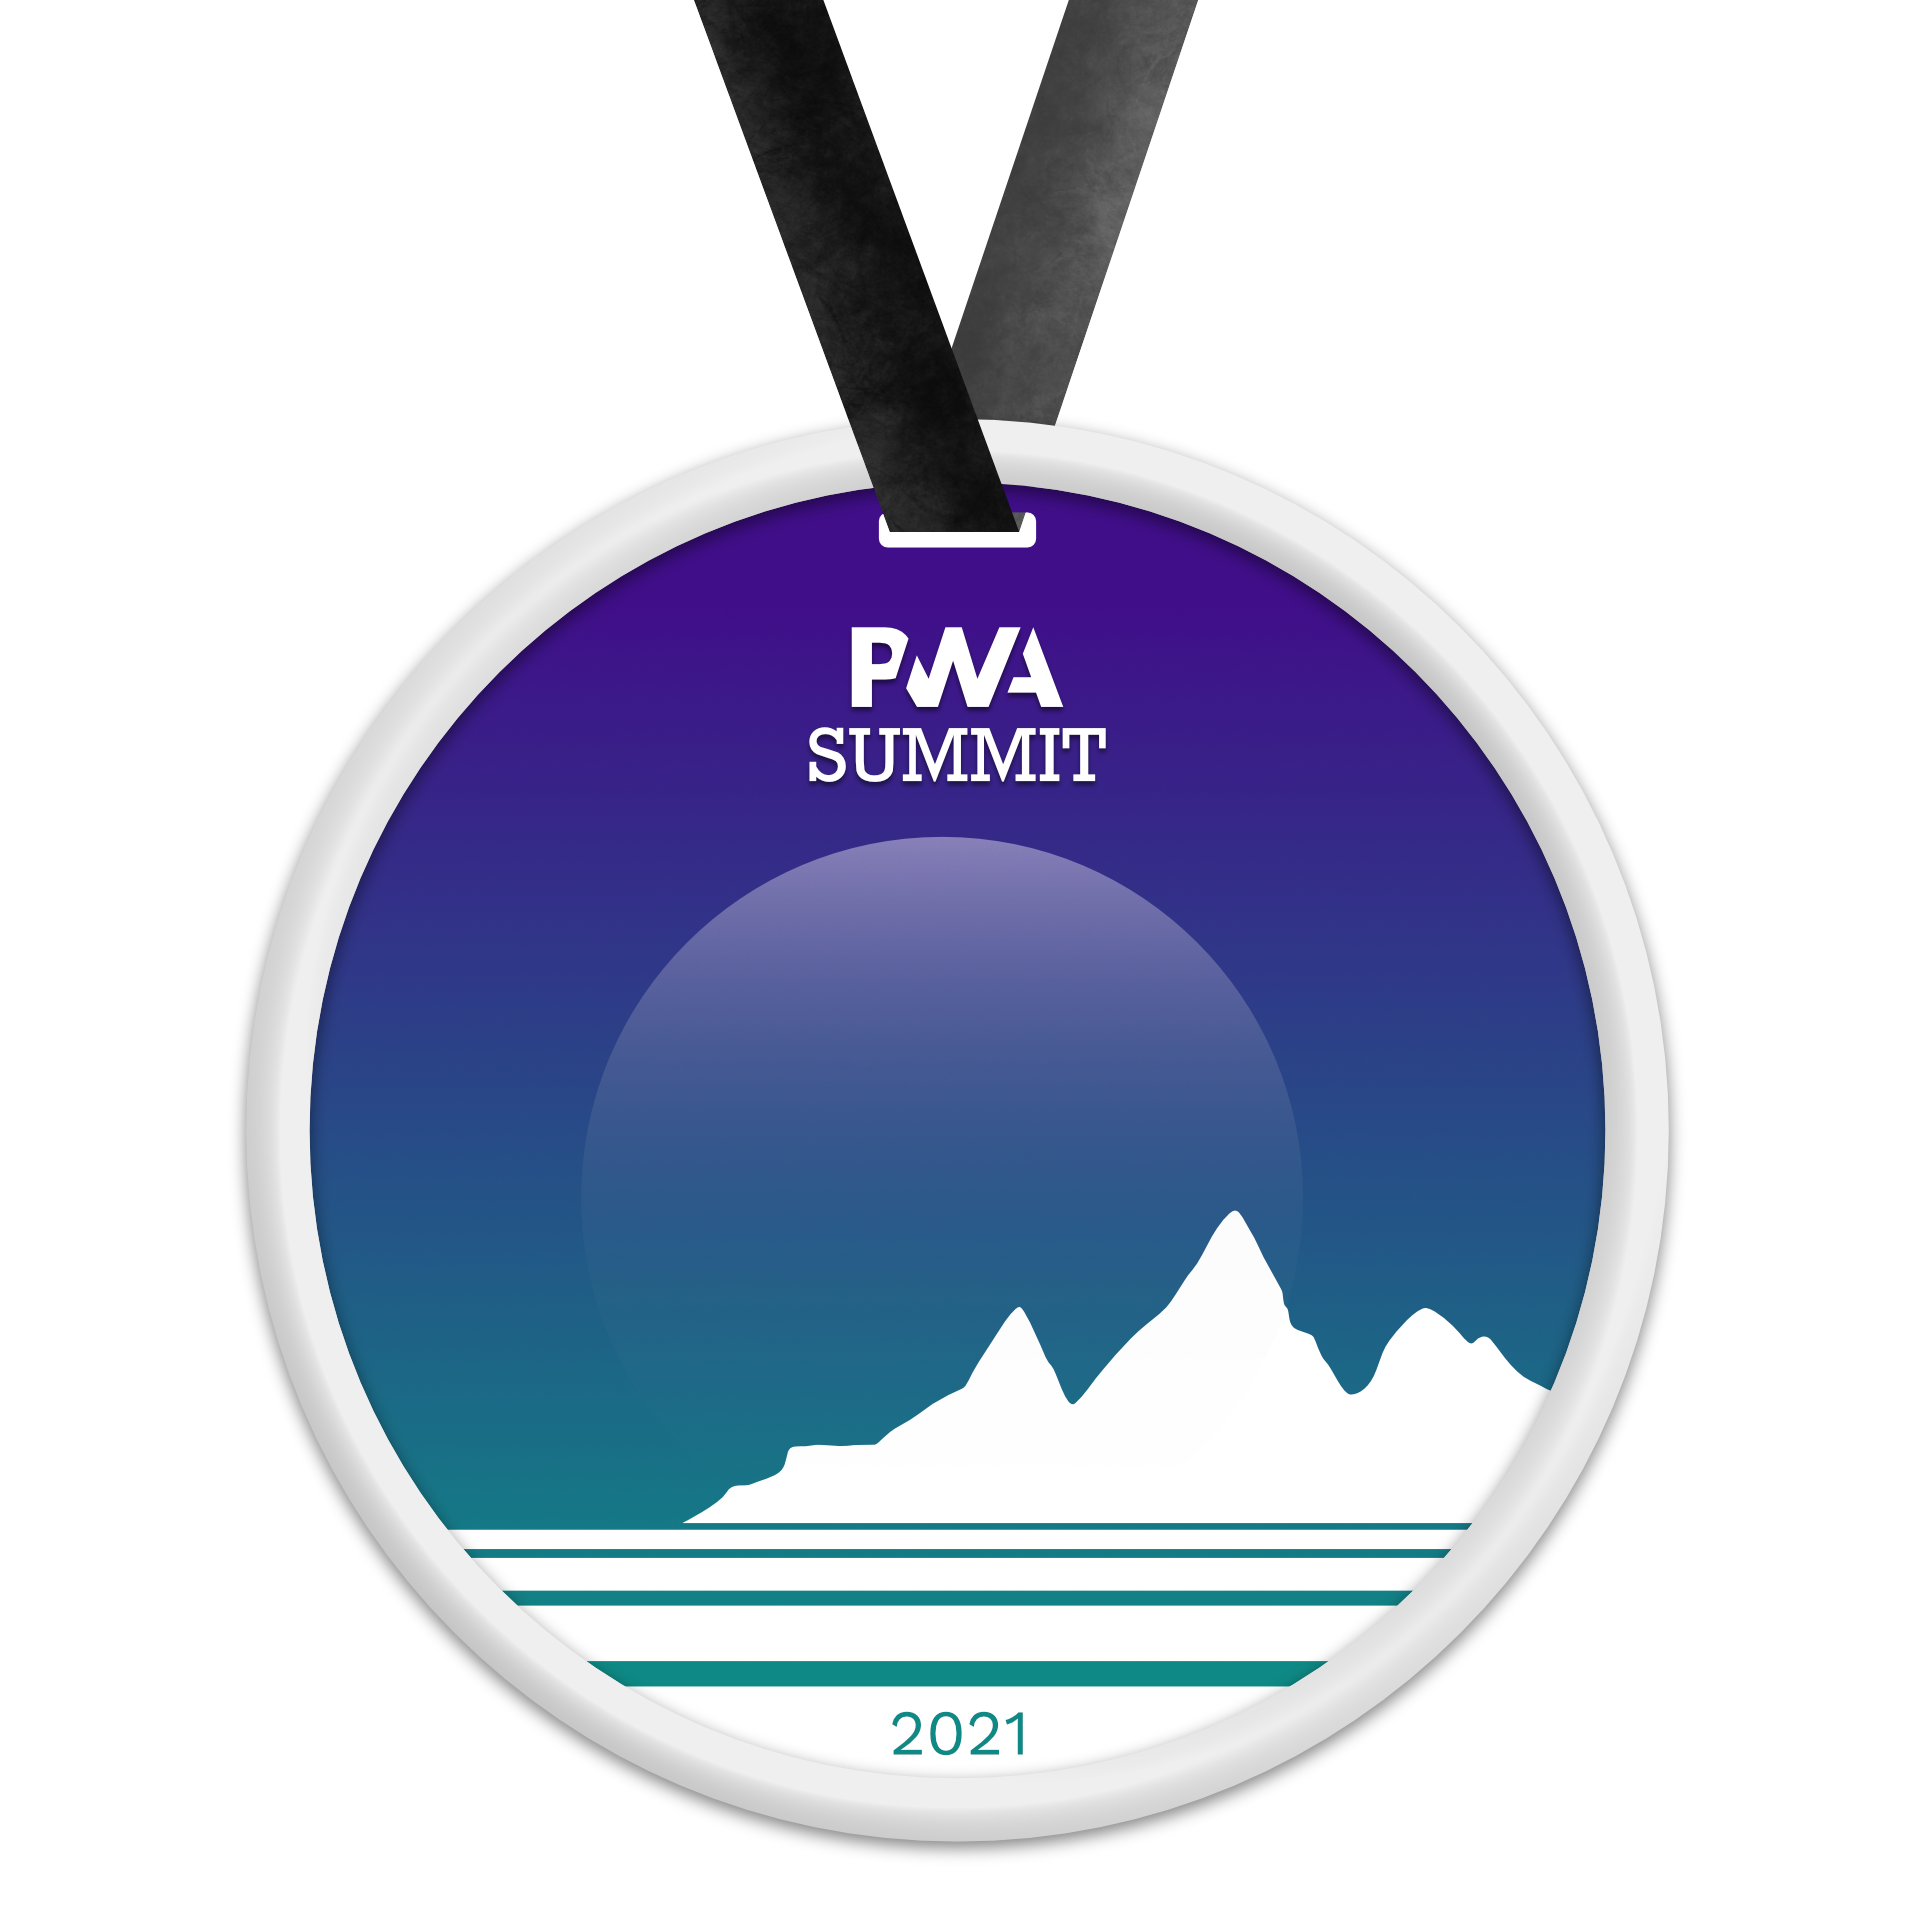
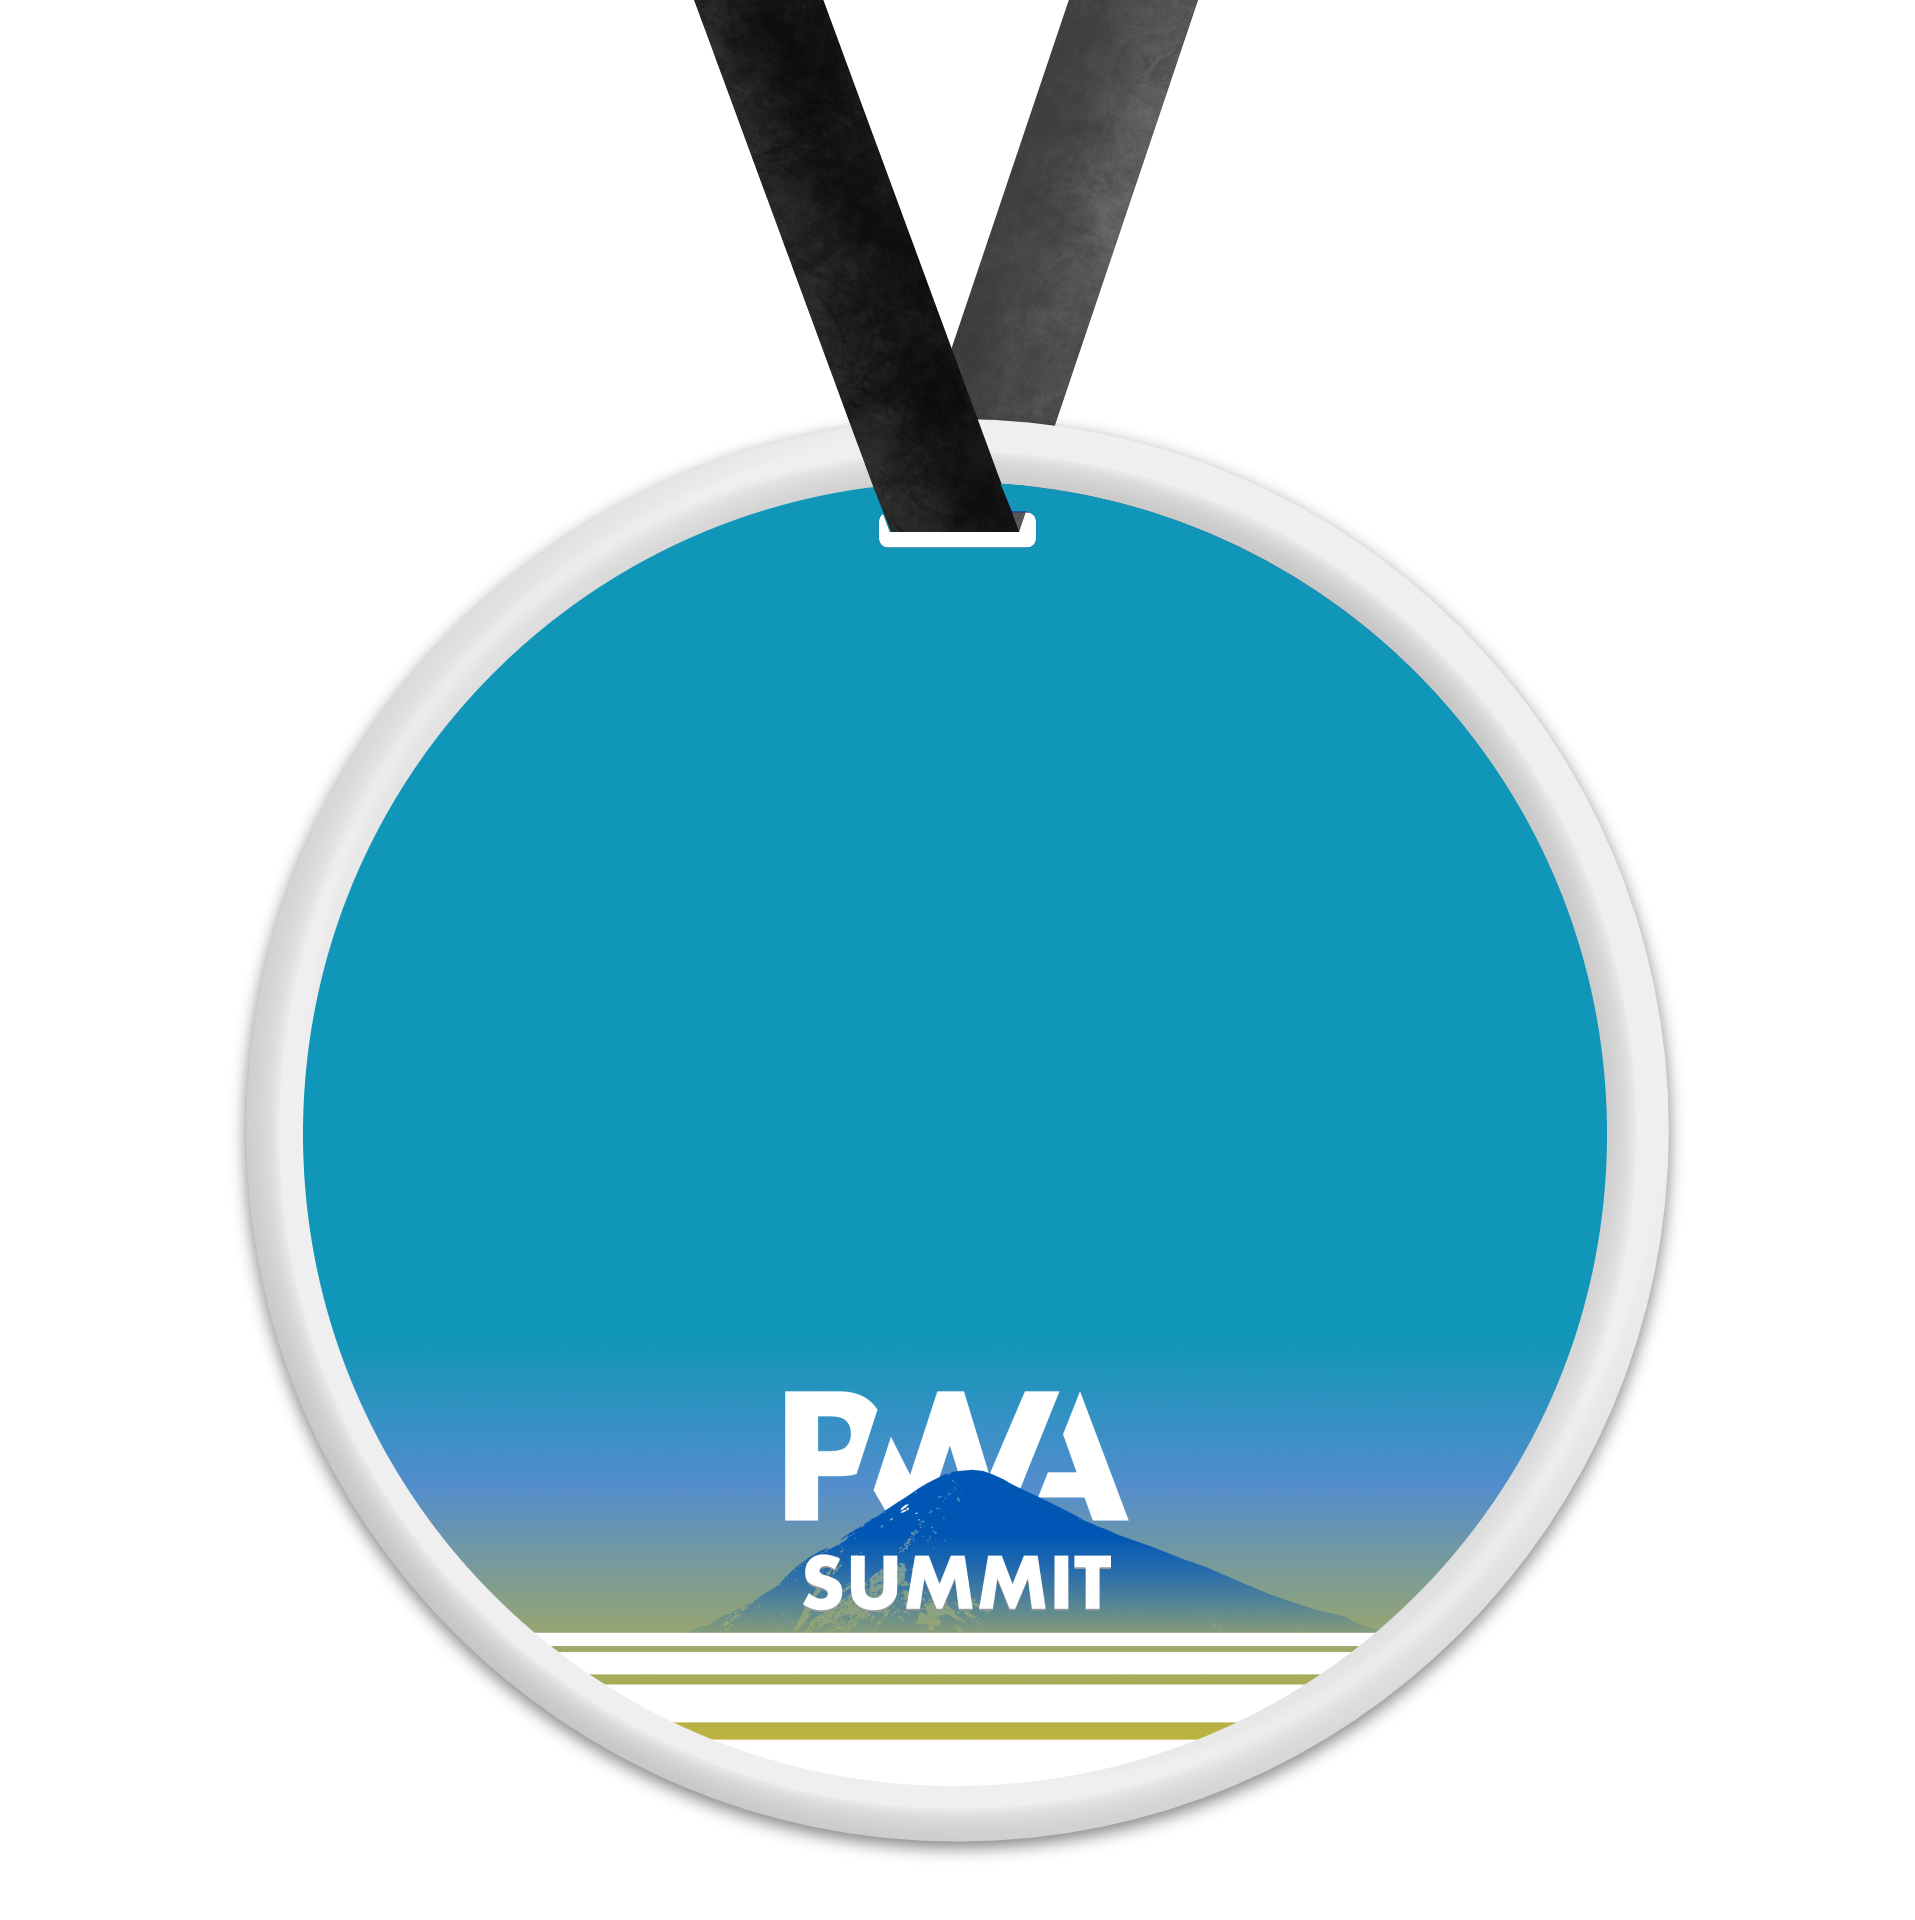
badge 2022 (#34)

diff --git a/netlify/functions/generate-badge-page/generate-badge-page.js b/netlify/functions/generate-badge-page/generate-badge-page.js
@@ -18,16 +18,16 @@ async function handler(event, context) {
         <meta name="viewport" content="width=device-width, initial-scale=1.0" />
         <title>I'm attending PWA Summit, October 5-6</title>
         <link rel="icon" type="image/svg+xml" href="/assets/logo.svg" />
-        <meta property="og:title" content="Join me at free online PWA Summit, Oct 6 & 7" />
+        <meta property="og:title" content="Join me at free online PWA Summit, October 5-6" />
         <meta property="og:type" content="website" />
         <meta property="og:url" content="https://pwasummit.org/" />
         <meta
           property="og:image"
-          content="https://res.cloudinary.com/pwasummit/image/upload/pwasummit/2021/${ticketId}.png"
+          content="https://res.cloudinary.com/pwasummit/image/upload/pwasummit/2022/${ticketId}.png"
         />
         <meta
           property="og:description"
-          content="This is a digital badge confirming my participation in PWA Summit 2021 - a free, online, single-track conference focused on helping everyone succeed with Progressive Web Apps. Get your ticket here ->"
+          content="This is a digital badge confirming my participation in PWA Summit 2022 - a free, online, single-track conference focused on helping everyone succeed with Progressive Web Apps. Get your ticket here ->"
         />
         <meta name="twitter:card" content="summary_large_image" />
         <meta name="twitter:site" content="@pwasummit" />
@@ -35,7 +35,7 @@ async function handler(event, context) {
         <style>
           body {
             background-color: #108484;
-            background-image: url(https://res.cloudinary.com/pwasummit/image/upload/pwasummit/2021/${ticketId}.png);
+            background-image: url(https://res.cloudinary.com/pwasummit/image/upload/pwasummit/2022/${ticketId}.png);
             background-position: center top;
             background-repeat: no-repeat;
             background-size: contain;
@@ -95,12 +95,12 @@ async function handler(event, context) {
       </head>
       <body>
         <div class="placeholder">
-          <div class="date">October 6 & 7, Online</div>
-          <tito-button event="pwasummit/2021"
+          <div class="date">October 5-6, Online</div>
+          <tito-button event="pwasummit/2022"
             >Get your free ticket</tito-button
           >
           <noscript>
-            <a class="tito-widget-button" href="https://ti.to/pwasummit/2021/preview">Get your free ticket</a>
+            <a class="tito-widget-button" href="https://ti.to/pwasummit/2022/preview">Get your free ticket</a>
           </noscript>
         </div>
       </body>

diff --git a/netlify/functions/render-badge/render-badge.js b/netlify/functions/render-badge/render-badge.js
@@ -48,7 +48,7 @@ const handler = async (event) => {
     }
 
     const eventName = 'pwasummit';
-    const eventYear = '2021';
+    const eventYear = '2022';
     const baseImagePath = 'netlify/functions/render-badge/assets/badge-bg.png';
 
     if (!process.env.NETLIFY) require('dotenv').config();
